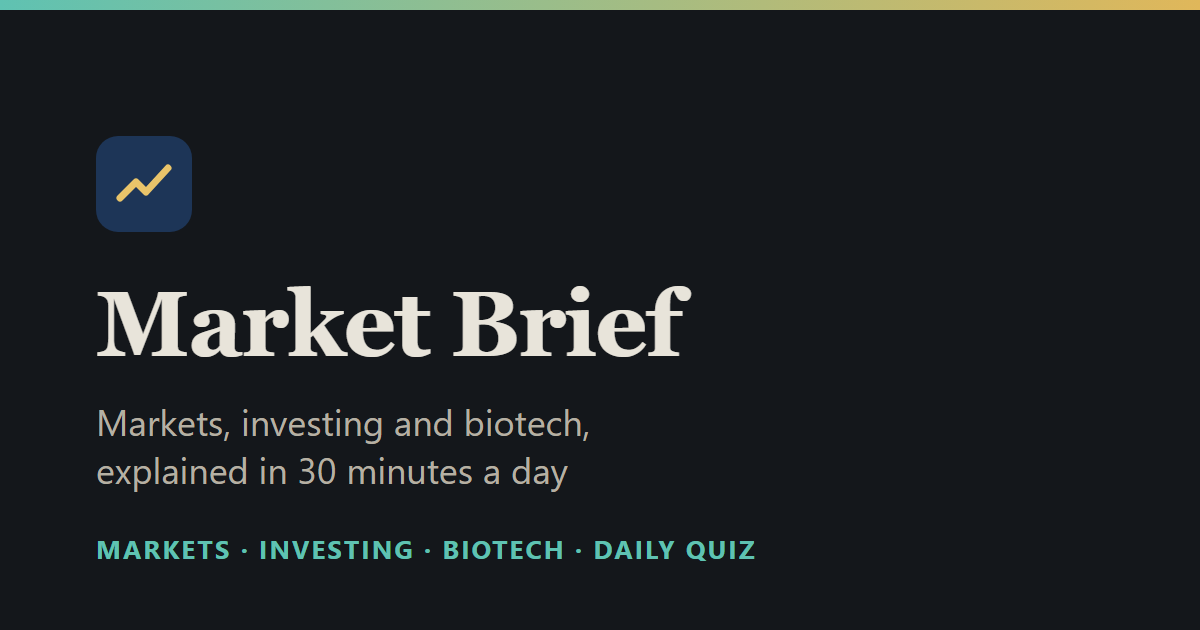
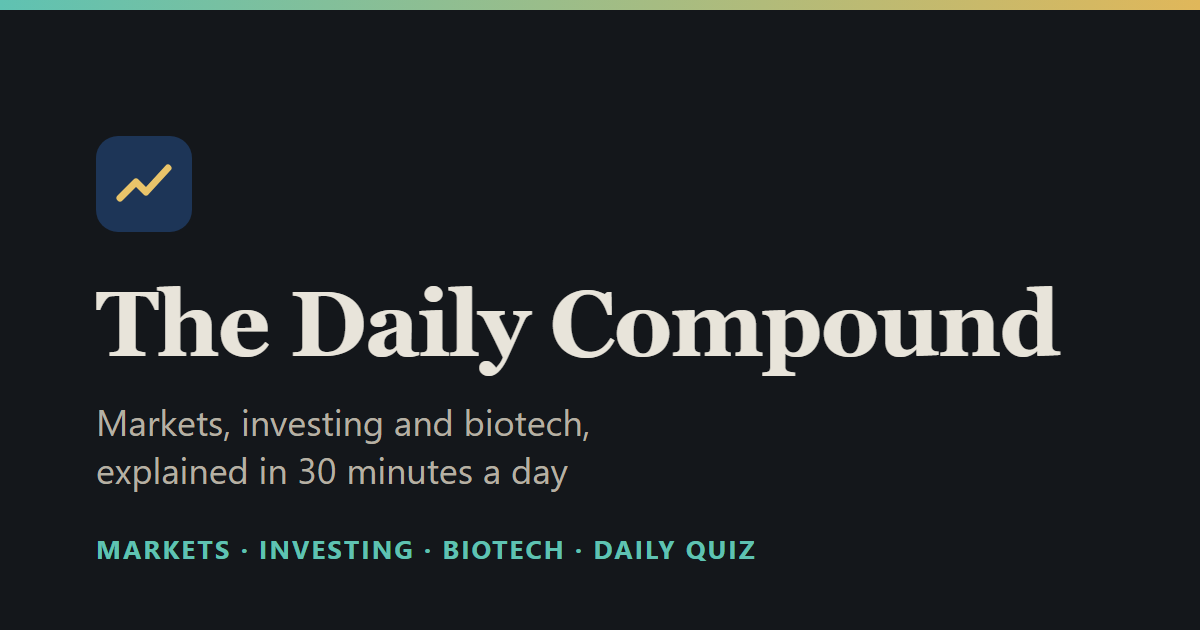
Edition 2026-11-23

Changed region(s): [[0.0617, 0.4524, 0.8942, 0.6032]]

diff --git a/site/assets/app.js b/site/assets/app.js
@@ -1,11 +1,11 @@
-/* Market Brief — renders a daily edition, tracks reading, runs the quiz.
+/* The Daily Compound — renders a daily edition, tracks reading, runs the quiz.
    Works straight from file:// (editions are plain <script> files). */
 (function () {
   'use strict';
 
   var manifest = (window.MB_MANIFEST || []).slice().sort(function (a, b) { return b.date.localeCompare(a.date); });
   window.MB_EDITIONS = window.MB_EDITIONS || {};
-  var SITE = window.MB_SITE || { name: 'Market Brief' };
+  var SITE = window.MB_SITE || { name: 'The Daily Compound' };
   var ROOT = document.documentElement.getAttribute('data-root') || '';
   var PAGE_DATE = document.documentElement.getAttribute('data-date') || '';
   var IS_FILE = location.protocol === 'file:';

diff --git a/scripts/serve.js b/scripts/serve.js
@@ -30,4 +30,4 @@ http.createServer((req, res) => {
     res.writeHead(200, { ...headers, 'Content-Type': types[path.extname(target)] + (/^(text|application)\//.test(types[path.extname(target)]) ? '; charset=utf-8' : '') });
     res.end(req.method === 'HEAD' ? undefined : buf);
   });
-}).listen(process.env.PORT || 8787, '127.0.0.1', () => console.log('Market Brief at http://localhost:' + (process.env.PORT || 8787)));
+}).listen(process.env.PORT || 8787, '127.0.0.1', () => console.log('The Daily Compound at http://localhost:' + (process.env.PORT || 8787)));

diff --git a/scripts/build.js b/scripts/build.js
@@ -13,7 +13,7 @@ const contentDir = path.join(root, 'content');
 const siteDir = path.join(root, 'site');
 const out = path.join(root, 'public');
 const config = Object.assign(
-  { name: 'Market Brief', tagline: '', description: '', url: '', buttondown: '', contact: '' },
+  { name: 'The Daily Compound', tagline: '', description: '', url: '', buttondown: '', contact: '' },
   JSON.parse(fs.readFileSync(path.join(root, 'site.config.json'), 'utf8'))
 );
 const baseUrl = (config.url || '').replace(/\/$/, '');

diff --git a/site/assets/style.css b/site/assets/style.css
@@ -1,4 +1,4 @@
-/* Market Brief — editorial reading layout */
+/* The Daily Compound — editorial reading layout */
 :root {
   --paper: #f7f4ec;
   --paper-2: #efeadf;

diff --git a/docs/EDITION_GUIDE.md b/docs/EDITION_GUIDE.md
@@ -1,4 +1,4 @@
-# Market Brief: how to write a daily edition
+# The Daily Compound: how to write a daily edition
 
 This is the rulebook for the scheduled task that writes each morning's edition. Follow it exactly.
 

diff --git a/README.md b/README.md
@@ -1,4 +1,4 @@
-# Market Brief
+# The Daily Compound
 
 A free daily briefing on markets, investing and biotech: about 30 minutes of reading, every story explained, and a quiz at the end.
 
